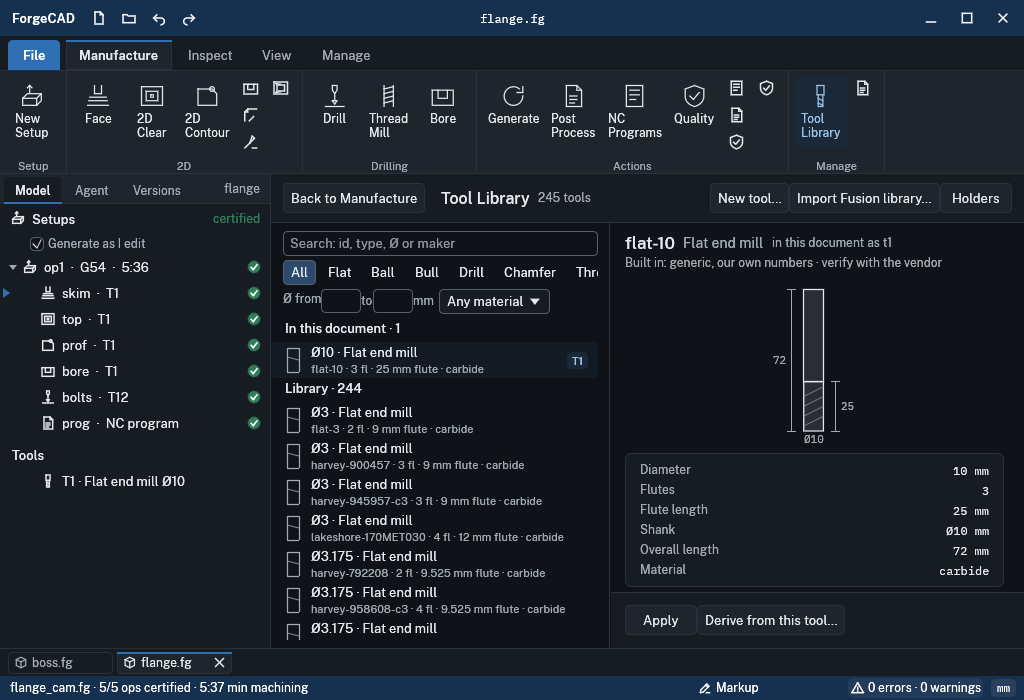
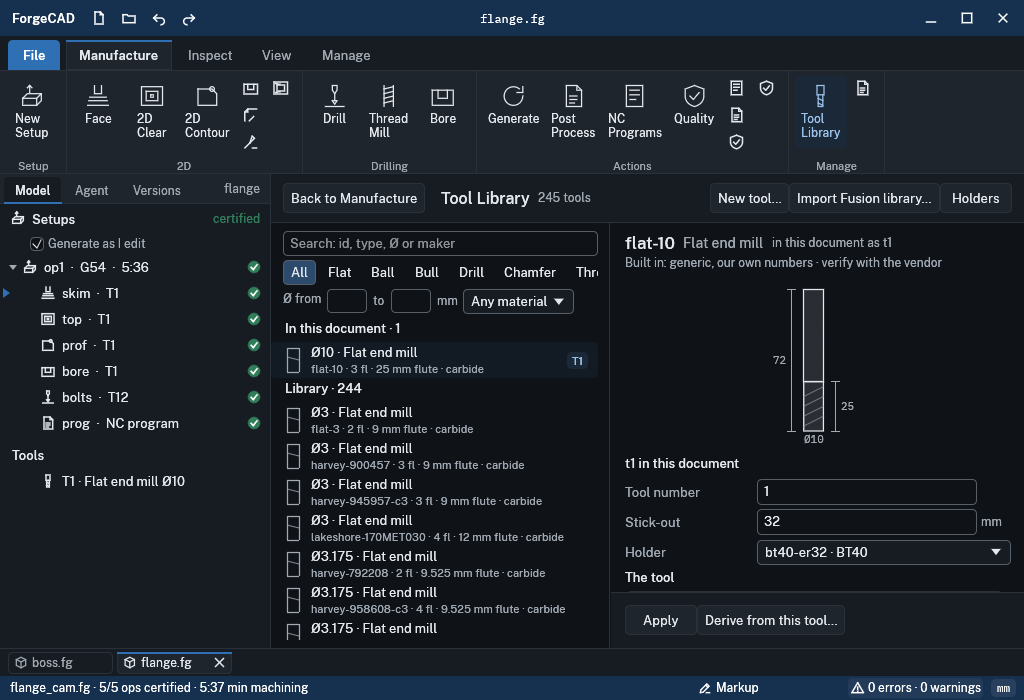
Manufacture: tool library P2s: the diameter range spaced; a document tool's own words above its facts (in view at 1024)
Claude-Session: https://claude.ai/code/session_01WJtawySQLKzpnK7g6t2CVB

diff --git a/interface/forge-render/src/shell/cam/ui.rs b/interface/forge-render/src/shell/cam/ui.rs
@@ -2299,11 +2299,15 @@ fn finder(
         ui.add_space(12.0);
         let word = |ui: &mut Ui, s: &str| ui.label(egui::RichText::new(s).font(sans(12.0)).color(t.ink2));
         word(ui, "\u{d8} from");
+        ui.add_space(6.0);
         let r = ui.add(egui::TextEdit::singleline(&mut w.tools_find.dmin).font(sans(12.0)).desired_width(40.0));
         places.push(("cam:tools:dmin".into(), r.rect));
+        ui.add_space(6.0);
         word(ui, "to");
+        ui.add_space(6.0);
         let r = ui.add(egui::TextEdit::singleline(&mut w.tools_find.dmax).font(sans(12.0)).desired_width(40.0));
         places.push(("cam:tools:dmax".into(), r.rect));
+        ui.add_space(6.0);
         word(ui, "mm");
         ui.add_space(6.0);
         let mats = toollib::materials(&w.lib);
@@ -2549,16 +2553,17 @@ fn detail_pane(
             if !x.material.is_empty() {
                 facts.push(("Material", x.material.clone()));
             }
-            sheet(ui, t, width, |ui, iw| {
-                for (k, val) in &facts {
-                    fact(ui, t, k, val, iw, t.ink);
-                }
-            });
             // in the document: its number, stick-out and holder (Apply in the footer)
             if let Some(name) = &doc_name {
                 heading(ui, t, &format!("{name} in this document"), width);
                 tool_instance(ui, t, w, name, inst_id(name), apply, places);
             }
+            heading(ui, t, "The tool", width);
+            sheet(ui, t, width, |ui, iw| {
+                for (k, val) in &facts {
+                    fact(ui, t, k, val, iw, t.ink);
+                }
+            });
             ui.add_space(12.0);
         });
     });
